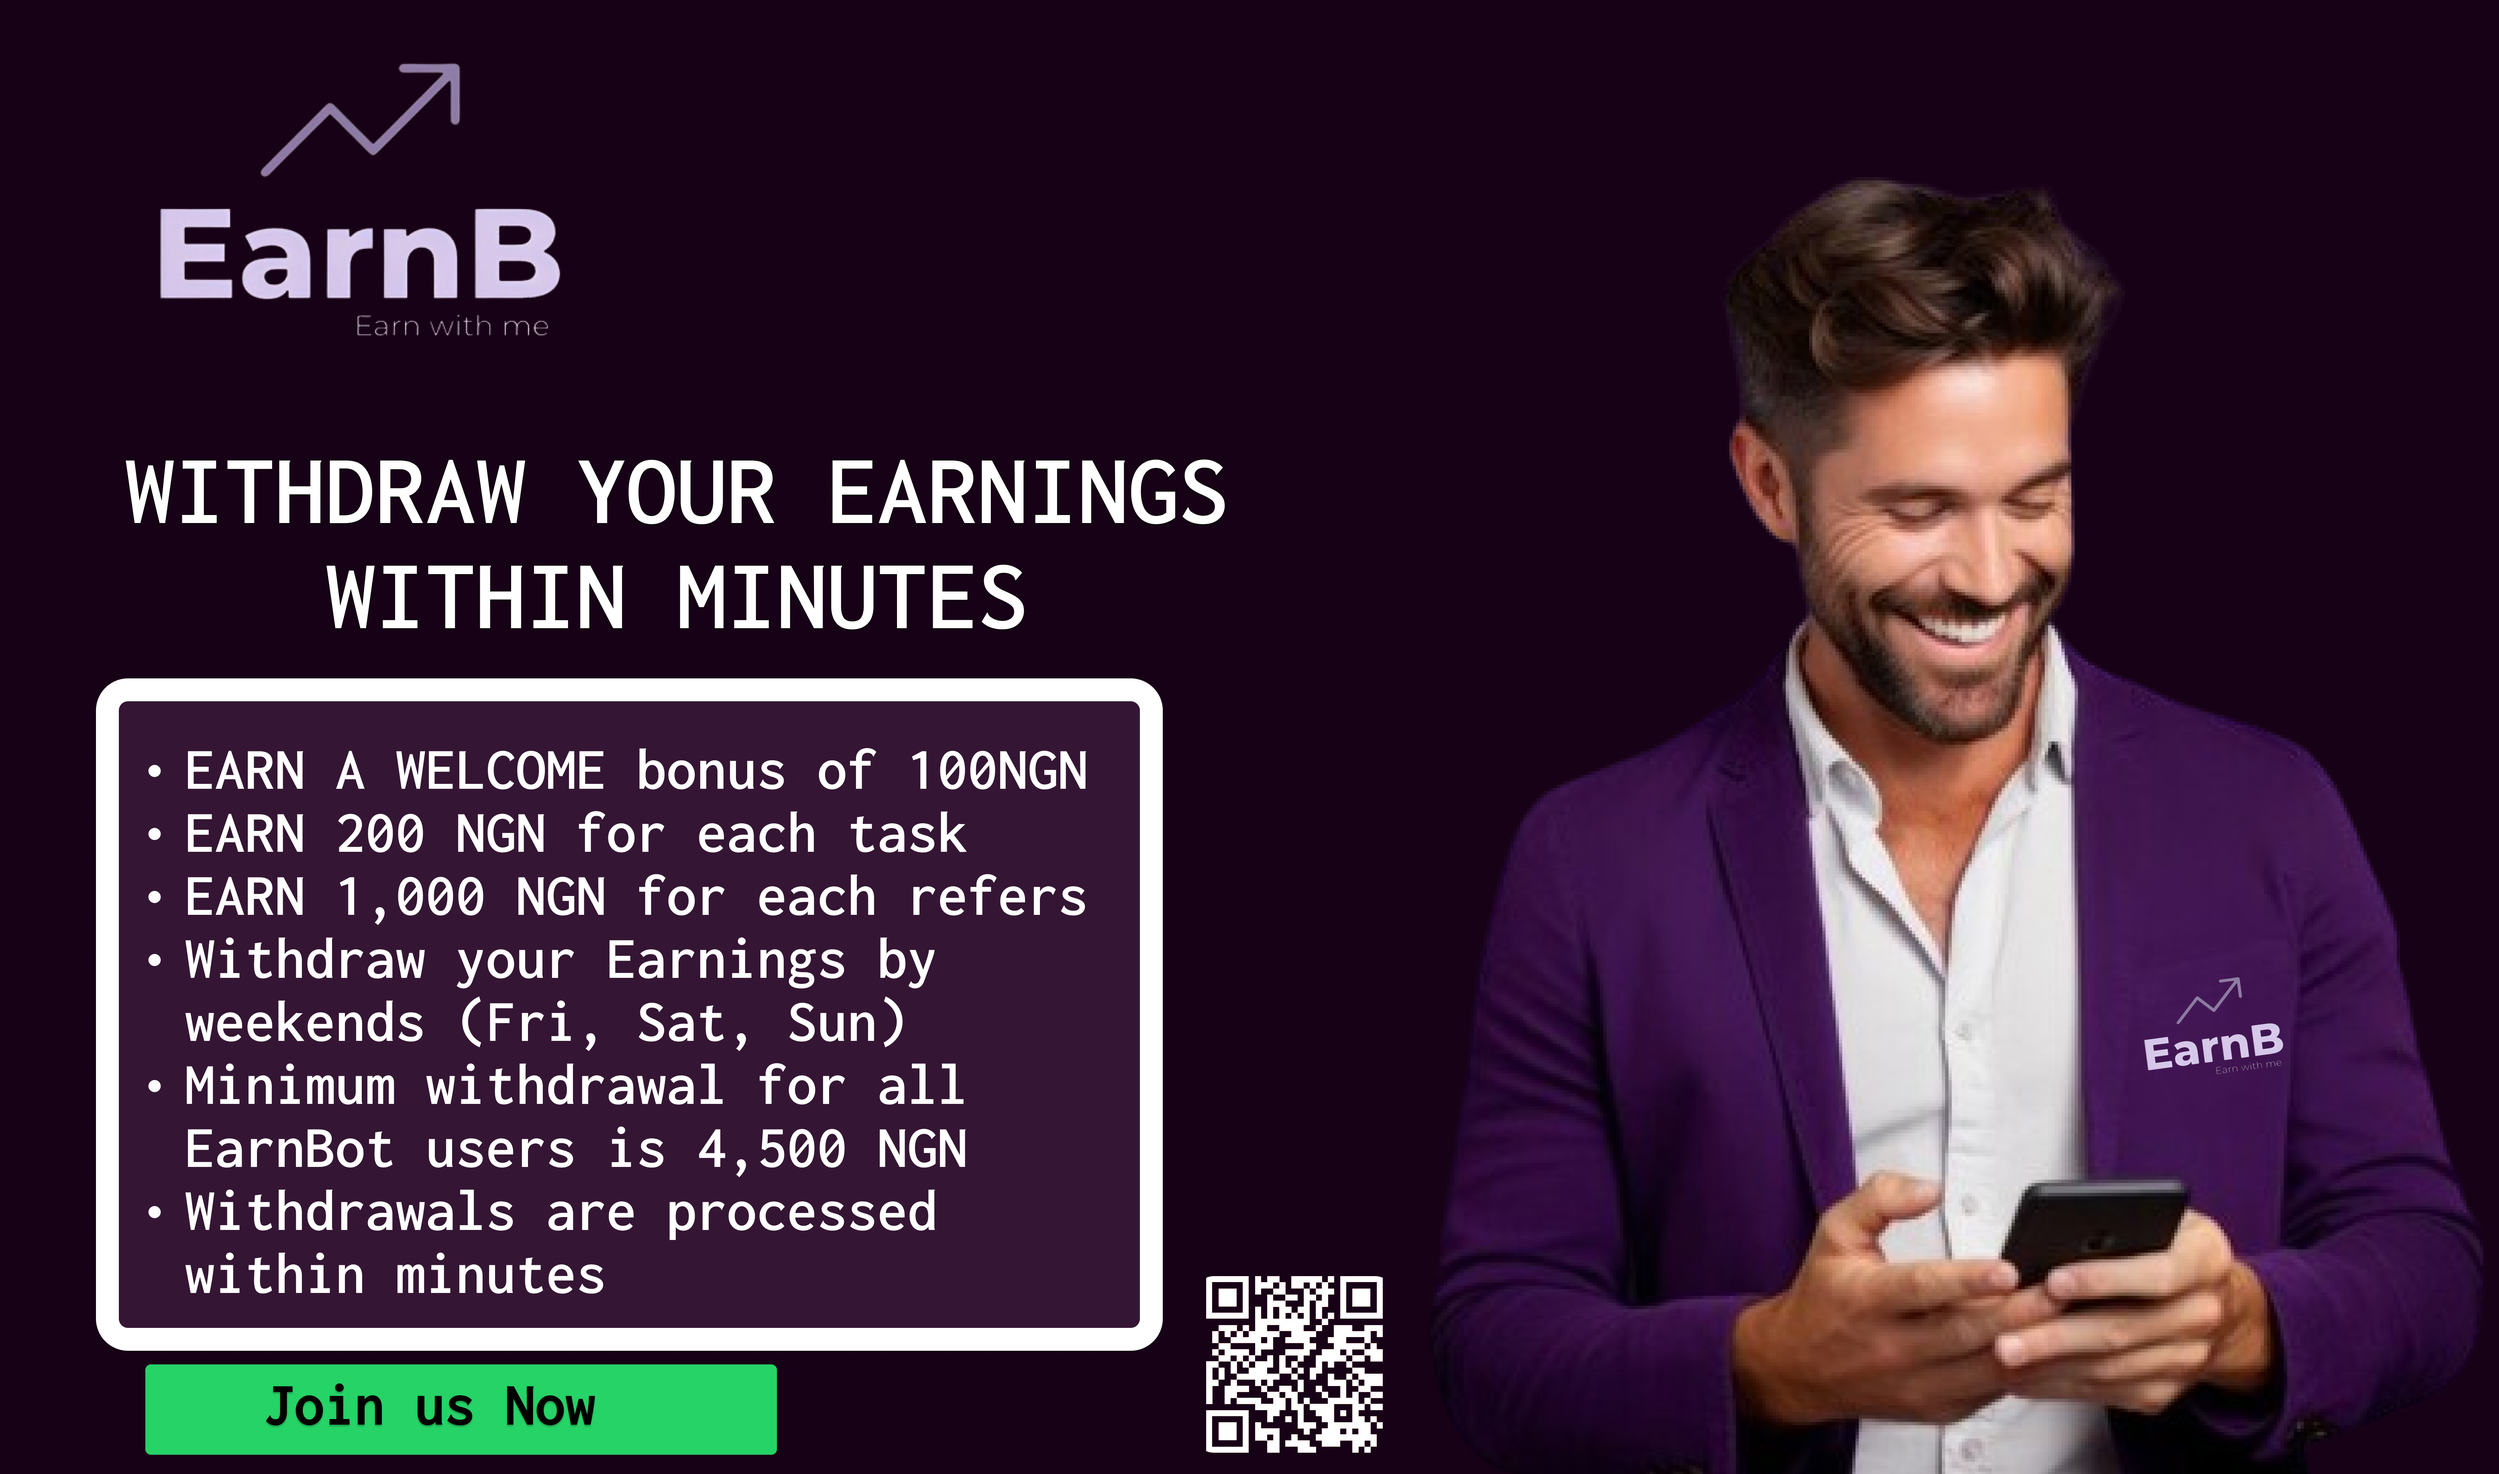
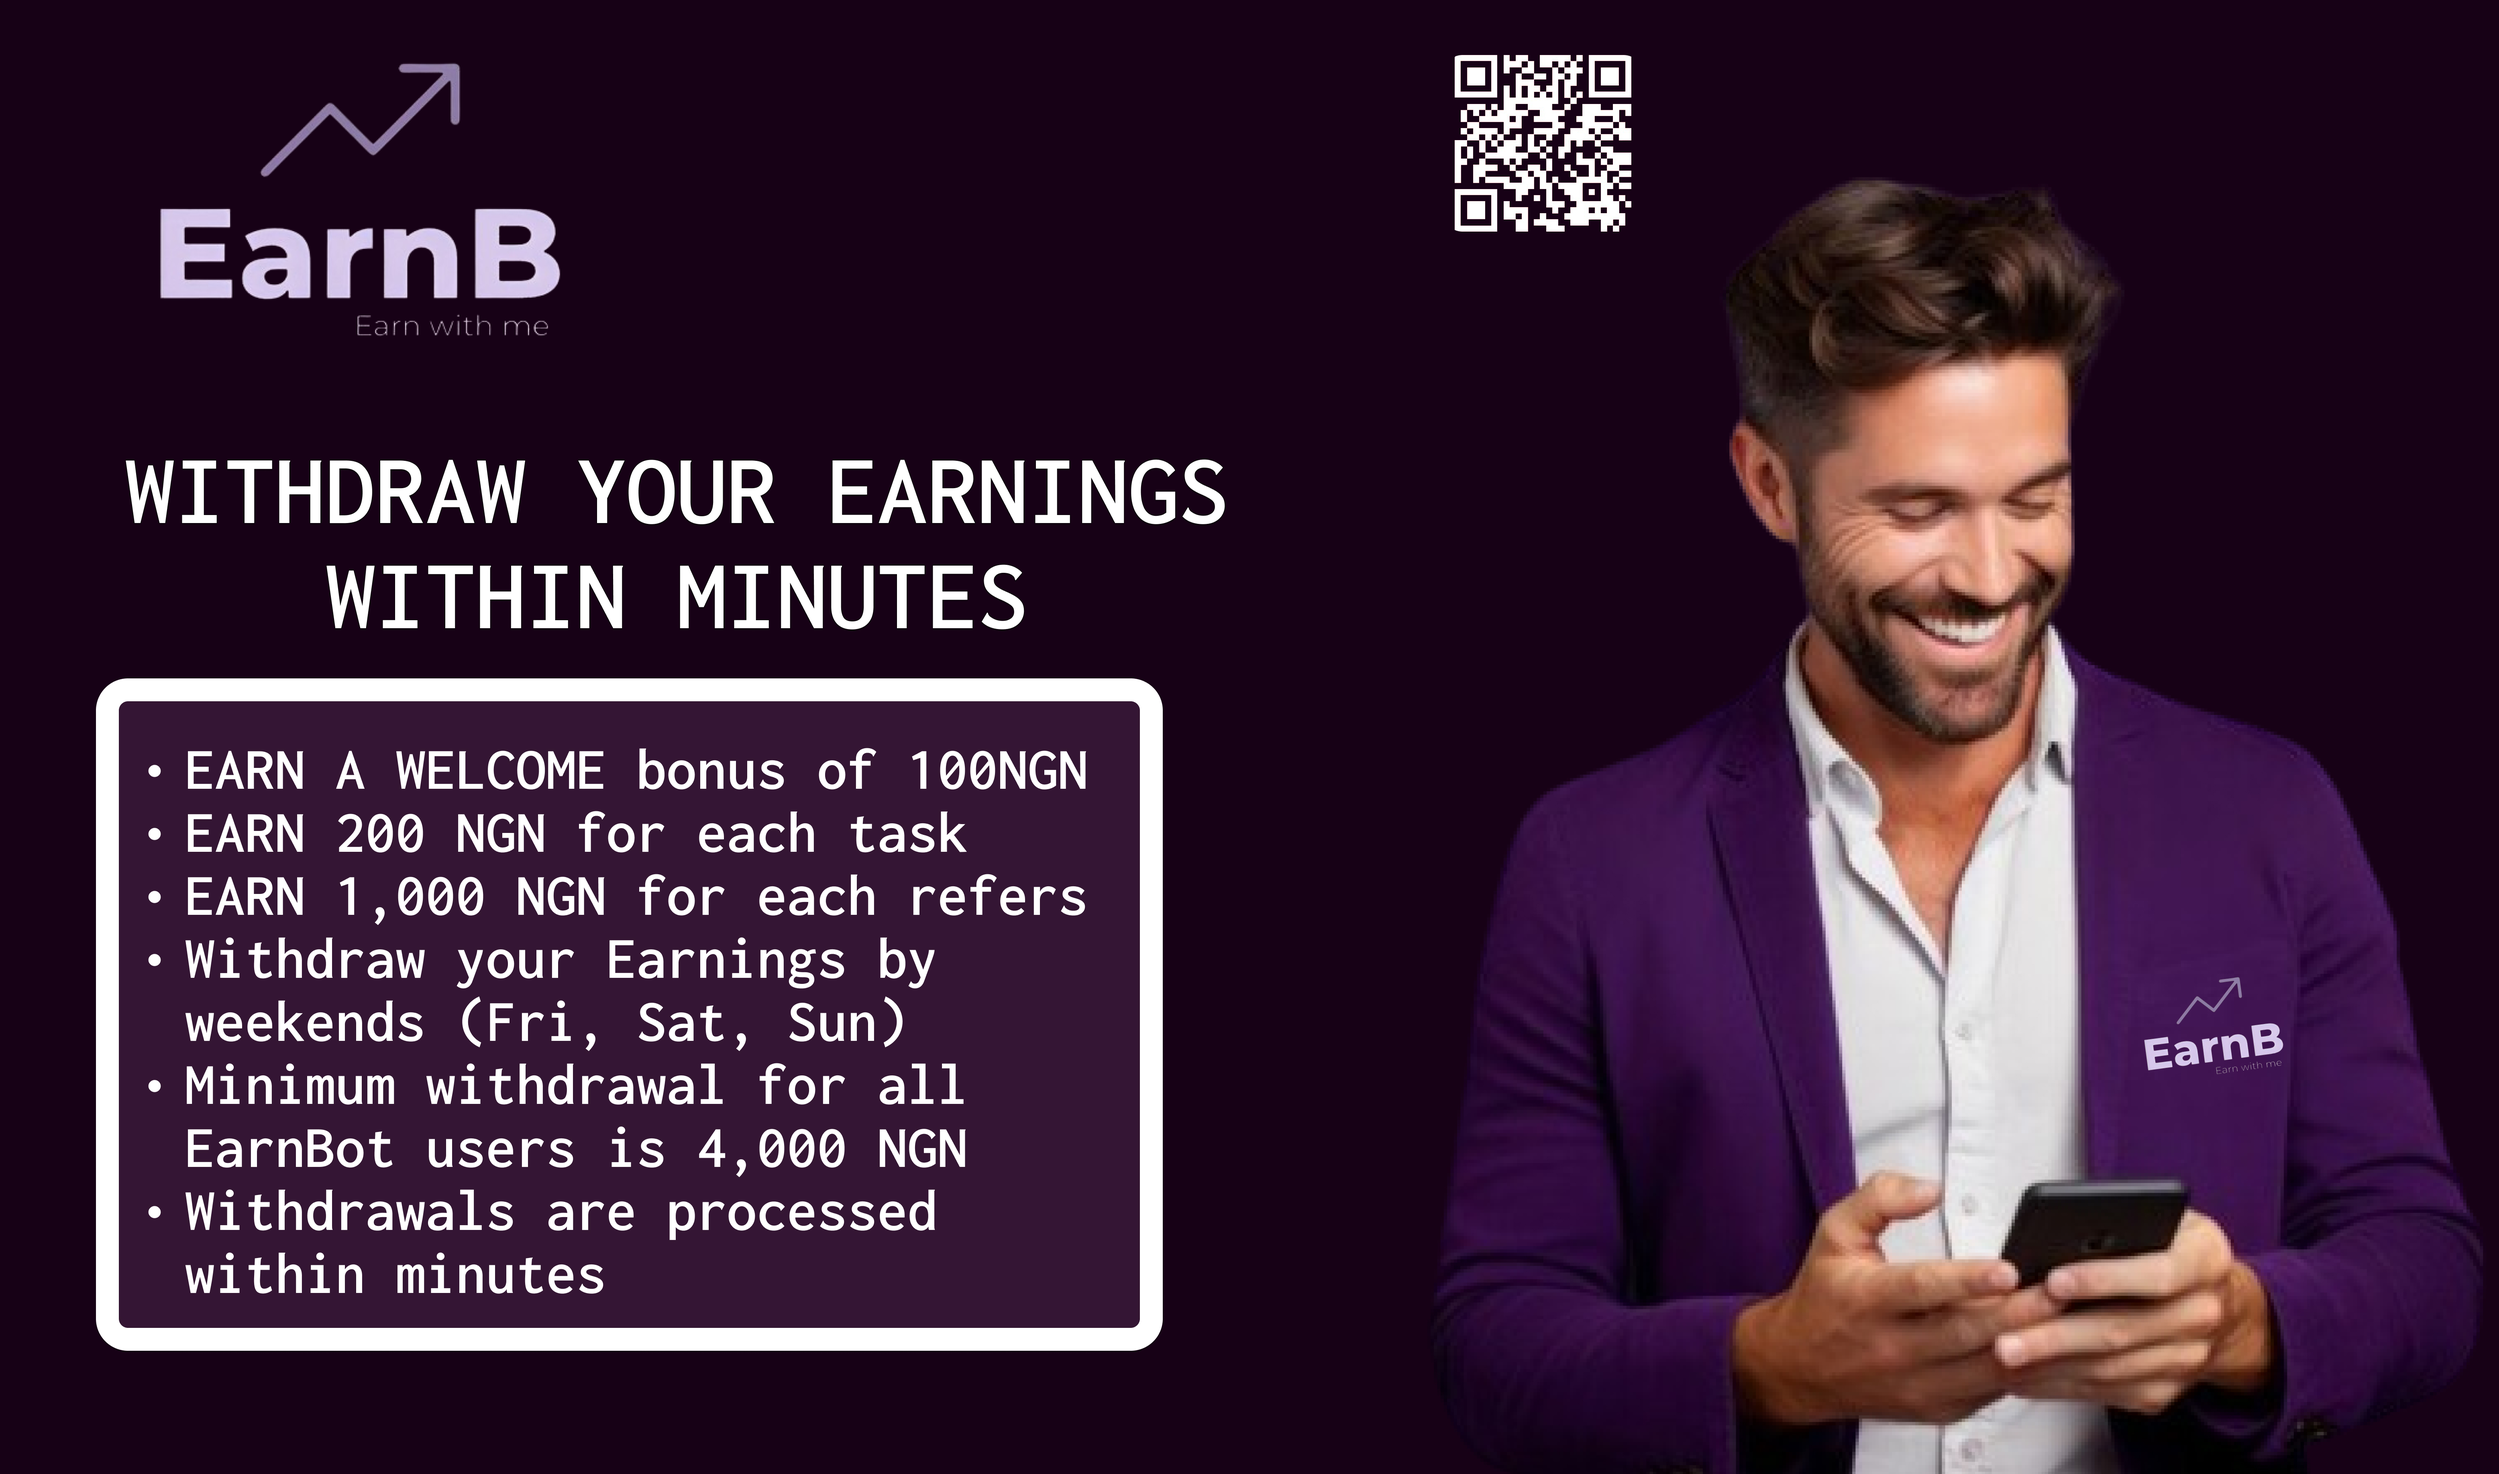
Comits

Changed region(s): [[0.0312, 0.9003, 0.3117, 0.9935], [0.5611, 0.031, 0.6546, 0.1552], [0.4675, 0.8693, 0.5611, 0.9935]]

diff --git a/index.html b/index.html
@@ -6,12 +6,16 @@
     <title>About EarnBot</title>
     <link rel="stylesheet" href="CSS/about.css">
     <link rel="icon" sizes="180*180" href="CSS/earnb.jpg" type="image/png">
+    <link rel="stylesheet" href="https://unpkg.com/boxicons@latest/css/boxicons.min.css">
 </head>
 <body>
     <nav class="navbar">
         <div class="container">
             <div class="logo">
                 <img src="CSS/photo.png" alt="Your Logo">
+            </div>
+            <div class="menu-icon" onclick="toggleMenu()">
+                <i class='bx bx-menu'></i>
             </div>
             <ul class="nav-menu">
                 <li><a href="token/token.html">Buy Token</a></li>
@@ -53,7 +57,7 @@
     </div>
     <div class="container-i">
         <h2>Withdraw Your Earnings In A Flash</h2>
-        <p>With a minimum withdrawal threshold of ₦4500, you can cash out your earnings easily. 
+        <p>With a minimum withdrawal threshold of ₦4000, you can cash out your earnings easily. 
             <br>No hidden fees or complicated processes - just straightforward earnings.
             <br>Tutorials on how to withdraw would be sent 📤, please ensure you stay in touch
             <br>with us on our Telegram channel for more updates.
@@ -78,6 +82,35 @@
         </h2>
         
     </div>
+    <div class="container-i">
+        <h2>EarnBot's interface</h2>
+        <p>EarnBot has a User-friendly interface which enables easy understanding for old or new Telegram Users
+          <br>so as to be able to navigate through the bot easily without any issues...
+          <br>After users use the <b>/start</b> button on the bot, users can enter their <b>Registration Token</b> and gain full
+          <br>access to all of the Bot's earning features. The <b>"Buy Code"</b> button is also available on the /start page
+          <br>for users who have not bought the registration token and the <b>"About"</b> button redirects you to visit our website
+        </p>
+    </div>
+    <div class="ref">
+        <img src="CSS/eb1.png" alt="EarnBot interface">
+    </div>
+    <div class="container-i">
+        <h2>EarnBot's Main Menu</h2>
+        <p>On EarnBot's main menu, the first button there is the <b>Referral Link</b> button where users get their unique referral link.
+            <br>The second button is the <b>Balance</b> button where users can see their available Balance incase they want to attempt withdrawal.
+            <br>The <b>Withdraw</b> button prompts you submit your bank details for the placement of withdrawal from your available Balance.
+            <br>The <b>Buy Code</b> button is used to purchase EarnBot tokens.
+            <br>The <b>Channel</b> button shows you our channels that you can join.
+            <br>Incase of help or assistance, use the <b>Help</b> button to reach us 😊.
+            <br>The <b>Bet</b> function offers games that you can use to double your earnings!
+            <br>You can check how many friends you have reffered to EarnBot using the <b>Ref Count</b> button.
+
+          <br>
+        </p>
+    </div>
+    <div class="ref">
+        <img src="CSS/eb2.png" alt="">
+    </div>
 
     <div class="earn">
         <img src="CSS/earnb.jpg" alt="">
@@ -99,6 +132,20 @@
         }
         function redirectToToken() {
             window.location.href = 'token/token.html';
+        }
+        function toggleMenu() {
+            const navMenu = document.querySelector('.nav-menu');
+            const menuIcon = document.querySelector('.menu-icon i');
+
+            if (navMenu.classList.contains('active')) {
+                navMenu.classList.remove('active');
+                menuIcon.classList.remove('bx-x');
+                menuIcon.classList.add('bx-menu');
+            } else {
+                navMenu.classList.add('active');
+                menuIcon.classList.remove('bx-menu');
+                menuIcon.classList.add('bx-x');
+            }
         }
     </script>
 </body>

diff --git a/CSS/about.css b/CSS/about.css
@@ -39,13 +39,24 @@ body {
 .navbar .logo img {
     height: 200px; 
     width: 200px;
+    transition: height 0.3s, width 0.3s;
 }
 
 .nav-menu {
     list-style-type: none;
     display: flex;
 }
-
+.navbar .menu-icon {
+    display: none;
+    cursor: pointer;
+    font-size: 24px;
+    margin-left: 330px;
+    margin-top: -120px;
+    padding-bottom: 110px;
+}
+.navbar .menu-icon :hover{
+    color: rgb(216, 200, 236);
+}
 .nav-menu li {
     margin-right: 20px;
 }
@@ -123,9 +134,10 @@ p {
 }
 .ref img{
     width: 1080px;
-    height: 520px;
+    height: 720px;
     margin-top: 10px;
-    margin: 20px;
+    margin: 0px;
+    padding: 8px;
 }
 
 .telegram{
@@ -181,16 +193,18 @@ p {
     .navbar .container {
         flex-direction: column;
         align-items: flex-start;
-        text-align: center;
     }
     .navbar .logo{
         
        padding: 0 40px; 
     }
+    .navbar .menu-icon {
+        display: block;
+    }   
 
     .navbar .logo img {
-        height: 90px; 
-        width: 90px;
+        height: 80px; 
+        width: 120px;
        margin-top: 50px;
 
     }
@@ -198,7 +212,7 @@ p {
         max-width: 100%;
         height: auto;
         margin-top: 10px;
-        margin: 10px;
+        margin: 0px;
       
     }
 
@@ -207,10 +221,19 @@ p {
         width: 100%;
         margin-top: -90px;
         margin-bottom: 10px;
+        display: none;
+        text-align: right;
+        
+        
     }
 
+    .nav-menu.active {
+        display: flex;
+    }
+
+
     .nav-menu li {
-        margin-right: 0;
+        margin-right: 5 0px;
         margin-bottom: 15px;
     }
 
@@ -246,19 +269,24 @@ p {
     }
 
     .navbar .logo img {
-        height: 50px; 
-        width: 50px;
+        height: 120px; 
+        width: 120px;
     }
 
     .nav-menu {
         flex-direction: column;
         width: 100%;
+        display: none;
     }
+    .nav-menu.active {
+        display: flex;
+    }
+    
     .ref img {
         max-width: 100%;
         height: auto;
         margin-top: 10px;
-        margin: 10px;
+        margin: 0px;
       
     }
 
